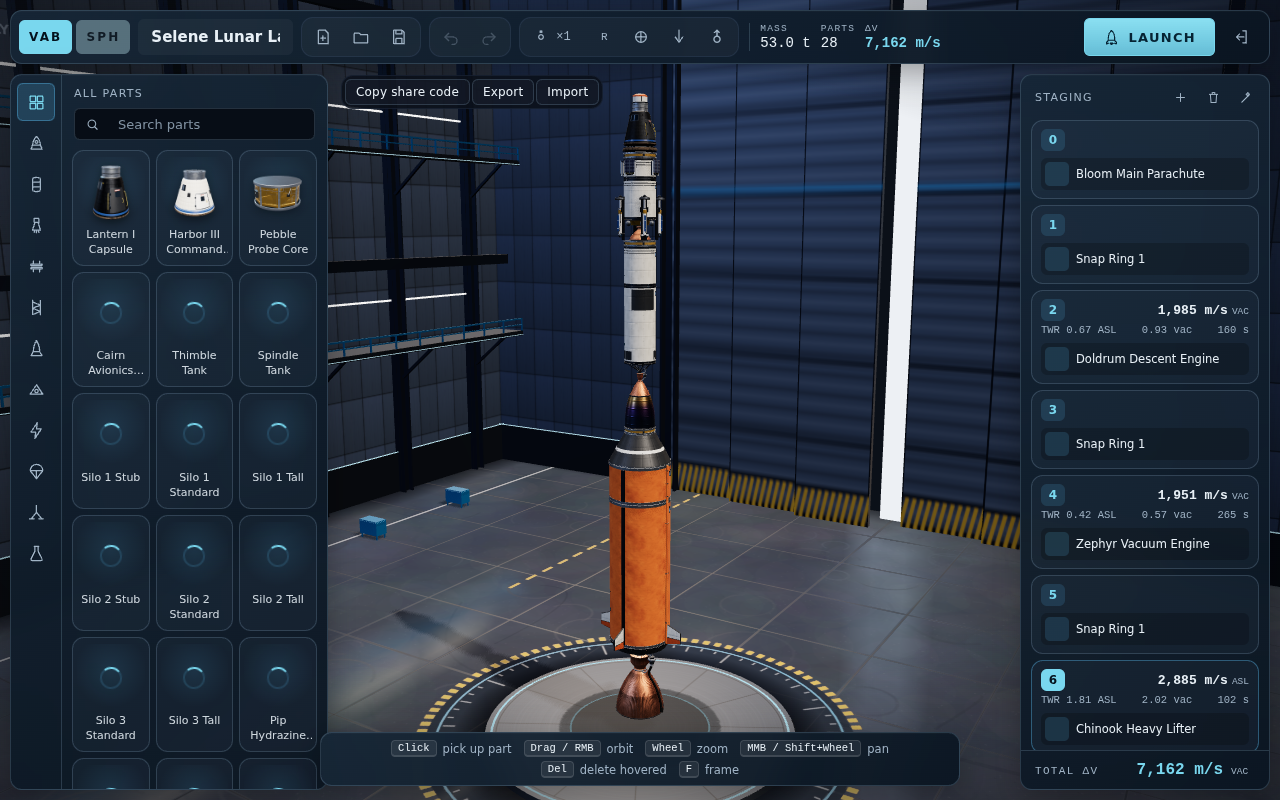
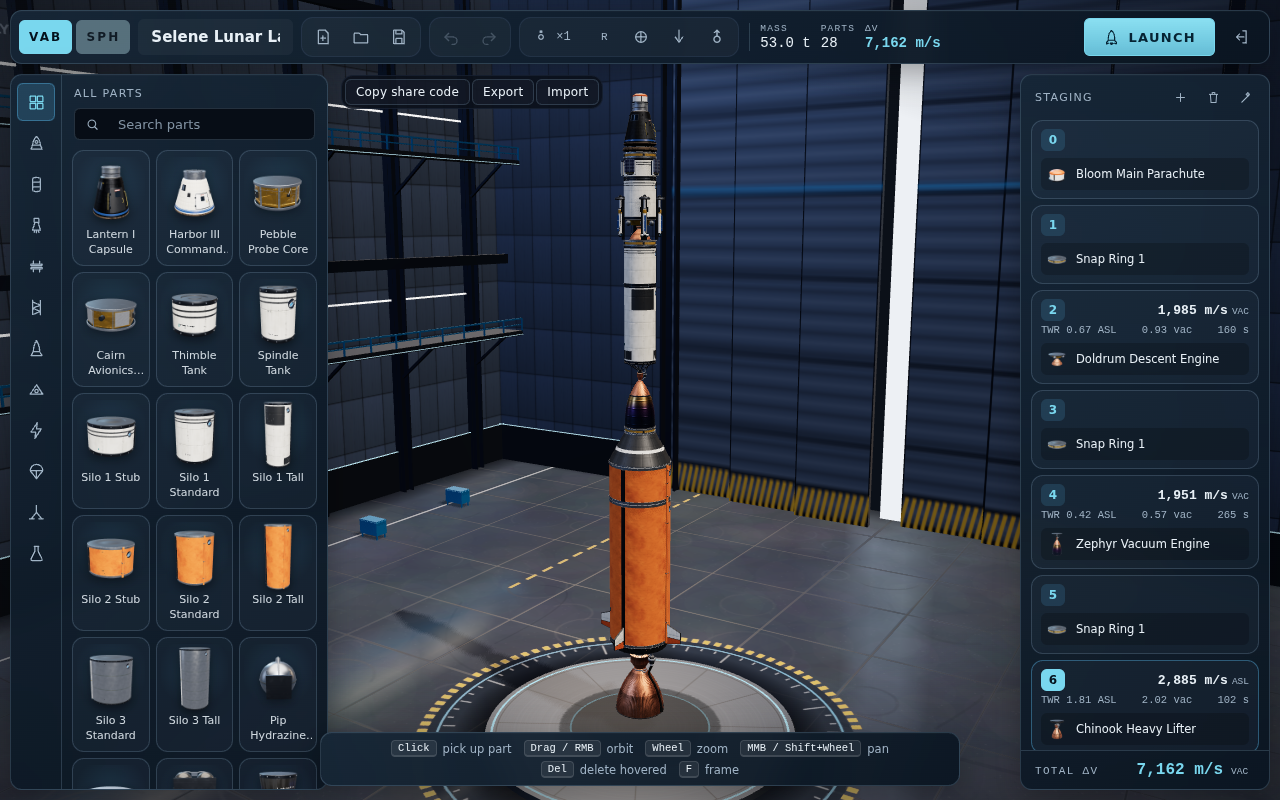
Thumbnails refresh in place once final textures land; final after screenshots

diff --git a/src/editor/scene/thumbnails.ts b/src/editor/scene/thumbnails.ts
@@ -63,10 +63,14 @@ function schedule() {
       refreshArmed = false;
       if (texturesFinal) return;
       texturesFinal = true;
-      const stale = [...cache.keys()];
-      for (const id of stale) cache.delete(id);
-      const defs = stale.map((id) => byId.get(id)).filter((d): d is PartDef => !!d);
-      requestThumbnails(defs);
+      // Re-render in place: keep the provisional image visible until its replacement is ready.
+      for (const id of cache.keys()) {
+        const d = byId.get(id);
+        if (!d || queued.has(id)) continue;
+        queued.add(id);
+        queue.push(d);
+      }
+      schedule();
     });
   }
   void Promise.race([ready, new Promise((r) => setTimeout(r, 2500))]).then(() =>
